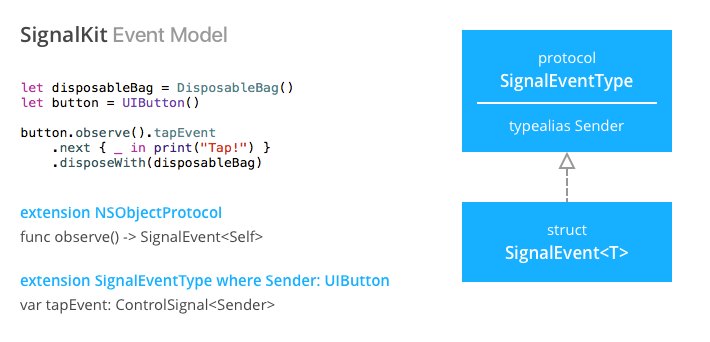
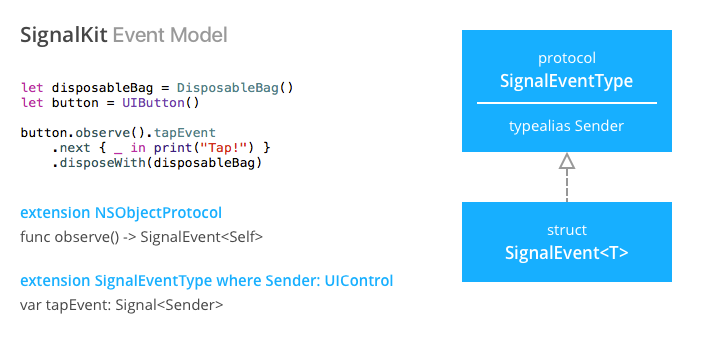
Update readme

Changed region(s): [[0.1549, 0.8772, 0.4028, 0.9064], [0.4648, 0.7895, 0.5577, 0.848]]

diff --git a/README.md b/README.md
@@ -1,10 +1,10 @@
-<img src="https://raw.githubusercontent.com/yankodimitrov/SignalKit/SignalKit-3.0/Resources/logo.png" width="280" alt="SignalKit">
+<img src="https://raw.githubusercontent.com/yankodimitrov/SignalKit/SignalKit-4.0/Resources/logo.png" width="280" alt="SignalKit">
 
 ---
 [![Carthage compatible](https://img.shields.io/badge/Carthage-compatible-4BC51D.svg?style=flat)](https://github.com/Carthage/Carthage)
 
 ## Abstract
-SignalKit is a lightweight event and binding framework. The core of SignalKit is the Observable protocol. Each implementation of the Observable protocol defines the type of the observation thus an Observable can dispatch only one type of event. For example an Observable of type String can only dispatch String values.
+SignalKit is a lightweight event and binding framework. The core of SignalKit is the Observable protocol. Each implementation of the Observable protocol defines the type of the observation thus an Observable can sendNext only one type of event. For example an Observable of type String can only sendNext String values.
 
 Another key protocol is SignalType which implements Observable and Disposable. Each SignalType implementation has a property <code>disposableSource: Disposable?</code> which points to a Disposable that comes before the current signal.
 
@@ -19,16 +19,16 @@ let userName = Signal<String>()
 userName.next { print("name: \($0)") }
 	.disposeWith(disposableBag)
 
-userName.dispatch("John") // prints "name: John"
+userName.sendNext("John") // prints "name: John"
 ```
 
-![SignalKit Primary Protocols](https://raw.githubusercontent.com/yankodimitrov/SignalKit/SignalKit-3.0/Resources/primary-protocols.png)
+![SignalKit Primary Protocols](https://raw.githubusercontent.com/yankodimitrov/SignalKit/SignalKit-4.0/Resources/primary-protocols.png)
 
 ## Events And Bindings
 
 SignalKit comes with an elegant way to observe for different event sources like **KVO**, **Target Action** and **NSNotificationCenter** via an unified API by simply calling <code>observe()</code> method. The observe method is a protocol extension on the <code>NSObjectProtocol</code> which returns a SignalEvent with sender Self. Then we use Protocol Oriented Programming to add extensions to a SignalEventType protocol where Sender is from a given type.
 
-![SignalKit Primary Protocols](https://raw.githubusercontent.com/yankodimitrov/SignalKit/SignalKit-3.0/Resources/event-model.png)
+![SignalKit Primary Protocols](https://raw.githubusercontent.com/yankodimitrov/SignalKit/SignalKit-4.0/Resources/event-model.png)
 
 ### Key Value Observing
 
@@ -85,43 +85,52 @@ userName.bindTo(textIn: nameLabel)
     .disposeWith(disposableBag)
 ```
 
-## Observables
+## Signals
 
 #### Signal
-<code>Signal</code> is the simplest Observable which you can use to dispatch events.
+<code>Signal</code> is the primary object which you can use to send events and it is thread safe.
 
-#### ObservableProperty
-<code>ObservableProperty</code> is an Observable which has a notion of a current value. If you change the value it will be dispatched to the observers.
-
-#### ObservableCollectionType
-<code>ObservableCollectionType</code> is a protocol that defines a property of type: <code>var changeSetSignal: Signal&lt;CollectionChangeSet&gt; { get }</code>.
-
-You can implement the protocol in your data source or other object that you use to return sections and items data to your collection/table view data source.
-
-When you make changes to your collection of section and items you can create a new <code>CollectionChangeSet</code> and use it to track the changes. Then you call the <code>changeSetSignal</code> to dispatch the changes:
+#### SignalValue
+<code>SignalValue</code> is a signal that stores its last sent/current value. If we add a new observer to it it will send immediately its value to the newly added observer. If we change the value of the signal it will notify its observers for the change. <code>SignalValue</code> is also thread safe.
 
 ```swift
-var items = ["a", "b", "c"]
-var changeSet = CollectionChangeSet()
+let name = SignalValue(value: "John")
 
-items.insert("x", atIndex: 0)
-items.insert("y", atIndex: 0)
+name.next { print($0) }.disposeWith(bag) // prints "John"
 
-changeSet.insertItemsInRange(0..<2, inSection: 0)
-changeSetSignal.dispatch(changeSet, onQueue: .MainQueue)
+name.value = "Jonathan" // prints "Jonathan"
 ```
 
-<code>ObservableCollectionType</code> has extensions which let you observe it and bind it to a <code>UITableView</code> or <code>UICollectionView</code>.
+#### CollectionEvent
+We can use a signal of type <code>Signal&lt;CollectionEvent&gt;</code> to send the changes that occur in our data source. Then we can bind the signal to <code>UITableView</code> or <code>UICollectionView</code> and the changes that we send will be reflected in the table/collection view:
+
+```swift
+// UsersListViewController
+...
+viewModel.usersChangeSignal.bindTo(tableView, rowAnimation: .Fade).disposeWith(bag)
+
+// UsersListViewModel
+let usersChangeSignal = Signal<CollectionEvent>()
+var users = [User]()
+...
+
+var event = CollectionEvent()
+
+users.insert(User(name: "John"), atIndex: 0)
+event.itemInsertedAt(0, inSection: 0)
+
+usersChangeSignal.sendNext(event)
+```
 
 ## Operations
 
 SignalKit comes with the following SignalType operations:
-![SignalKit Primary Protocols](https://raw.githubusercontent.com/yankodimitrov/SignalKit/SignalKit-3.0/Resources/signal-operations.png)
+![SignalKit Primary Protocols](https://raw.githubusercontent.com/yankodimitrov/SignalKit/SignalKit-4.0/Resources/signal-operations.png)
 
 ## Extensions
 
 Currently SignalKit comes with extensions for the the following <code>UIKit</code> components:
-![SignalKit Primary Protocols](https://raw.githubusercontent.com/yankodimitrov/SignalKit/SignalKit-3.0/Resources/uikit-extensions.png)
+![SignalKit Primary Protocols](https://raw.githubusercontent.com/yankodimitrov/SignalKit/SignalKit-4.0/Resources/uikit-extensions.png)
 
 ### Keyboard
 You can use the <code>Keyboard</code> structure to observe for keyboard events posted by the system. Then you will get back a structure of type <code>KeyboardState</code> which you can query for the keyboard end/start frame and other data that the system sends with the notification:
@@ -134,7 +143,7 @@ Keyboard.observe().willShow
 
 ## Installation
 
-SignalKit requires Swift 2.0 and XCode 7
+SignalKit requires Swift 2.0 and Xcode 7
 
 #### Carthage
 Add the following line to your [Cartfile](https://github.com/carthage/carthage)
